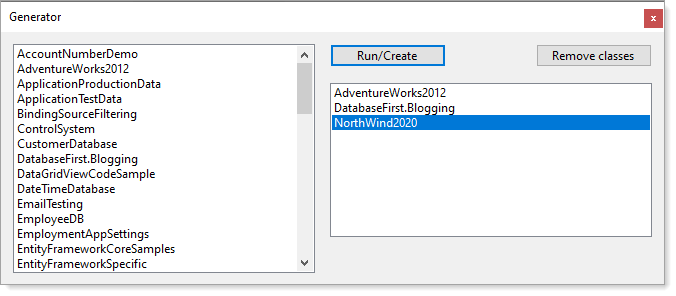
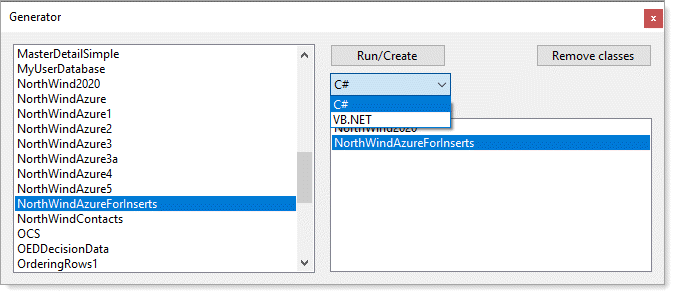
Added support for vb.net

diff --git a/CreateClassesFromSqlServer/Form1.Designer.cs b/CreateClassesFromSqlServer/Form1.Designer.cs
@@ -33,6 +33,7 @@ namespace CreateClassesFromSqlServer
             this.DatabaseNamesListBox = new System.Windows.Forms.ListBox();
             this.CreatedListBox = new System.Windows.Forms.ListBox();
             this.RemoveClassesFolderButton = new System.Windows.Forms.Button();
+            this.LanguageComboBox = new System.Windows.Forms.ComboBox();
             this.SuspendLayout();
             // 
             // CreateButton
@@ -58,7 +59,7 @@ namespace CreateClassesFromSqlServer
             // 
             this.CreatedListBox.FormattingEnabled = true;
             this.CreatedListBox.ItemHeight = 15;
-            this.CreatedListBox.Location = new System.Drawing.Point(329, 51);
+            this.CreatedListBox.Location = new System.Drawing.Point(329, 86);
             this.CreatedListBox.Name = "CreatedListBox";
             this.CreatedListBox.Size = new System.Drawing.Size(322, 154);
             this.CreatedListBox.TabIndex = 2;
@@ -73,11 +74,21 @@ namespace CreateClassesFromSqlServer
             this.RemoveClassesFolderButton.UseVisualStyleBackColor = true;
             this.RemoveClassesFolderButton.Click += new System.EventHandler(this.RemoveClassFolderButton_Click_1);
             // 
+            // LanguageComboBox
+            // 
+            this.LanguageComboBox.DropDownStyle = System.Windows.Forms.ComboBoxStyle.DropDownList;
+            this.LanguageComboBox.FormattingEnabled = true;
+            this.LanguageComboBox.Location = new System.Drawing.Point(329, 41);
+            this.LanguageComboBox.Name = "LanguageComboBox";
+            this.LanguageComboBox.Size = new System.Drawing.Size(121, 23);
+            this.LanguageComboBox.TabIndex = 4;
+            // 
             // Form1
             // 
             this.AutoScaleDimensions = new System.Drawing.SizeF(7F, 15F);
             this.AutoScaleMode = System.Windows.Forms.AutoScaleMode.Font;
             this.ClientSize = new System.Drawing.Size(663, 252);
+            this.Controls.Add(this.LanguageComboBox);
             this.Controls.Add(this.RemoveClassesFolderButton);
             this.Controls.Add(this.CreatedListBox);
             this.Controls.Add(this.DatabaseNamesListBox);
@@ -96,6 +107,7 @@ namespace CreateClassesFromSqlServer
         private System.Windows.Forms.ListBox DatabaseNamesListBox;
         private System.Windows.Forms.ListBox CreatedListBox;
         private System.Windows.Forms.Button RemoveClassesFolderButton;
+        private System.Windows.Forms.ComboBox LanguageComboBox;
     }
 }
 

diff --git a/CreateClassesFromSqlServer/Classes/DataOperations.cs b/CreateClassesFromSqlServer/Classes/DataOperations.cs
@@ -22,6 +22,8 @@ namespace CreateClassesFromSqlServer.Classes
         /// </summary>
         public static string OutputFolder { get; set; }
 
+        public static Language Language { get; set; }
+
         /// <summary>
         /// Iterate <see cref="Database"/> tables, create classes from
         /// SQL in the file ClassQuery.txt or ClassQueryPlain.txt
@@ -33,7 +35,11 @@ namespace CreateClassesFromSqlServer.Classes
         {
             try
             {
-                var classQuery = File.ReadAllText("ClassQueryPlain.txt");
+                //var classQuery = File.ReadAllText("ClassQueryPlain.txt");
+                var classQuery = File.ReadAllText("ClassQueryPlainVb.txt");
+                
+                var fileExtension = Language == Language.Sharp ? ".cs" : ".vb";
+                
 
                 using var cn = new SqlConnection($"Server={Server};Database={Database};Integrated Security=true");
 
@@ -60,12 +66,12 @@ namespace CreateClassesFromSqlServer.Classes
                         tableName = row["TABLE_SCHEMA"] + "." + row["TABLE_NAME"];
                     }
 
-                    var fileName = tableName + ".cs";
+                    var fileName = tableName + fileExtension;
 
                     var baseFileName = Path.GetFileNameWithoutExtension(fileName);
                     baseFileName = baseFileName.Replace(".", "");
 
-                    fileName = baseFileName + ".cs";
+                    fileName = baseFileName + fileExtension;
 
                     string sqlStatement = $"declare @TableName sysname = '{tableName}'{classQuery}";
 

diff --git a/CreateClassesFromSqlServer/Classes/Language.cs b/CreateClassesFromSqlServer/Classes/Language.cs
@@ -1,0 +1,32 @@
+using System;
+using System.Collections.Generic;
+using System.Linq;
+using System.Text;
+using System.Threading.Tasks;
+
+namespace CreateClassesFromSqlServer.Classes
+{
+    public enum Language
+    {
+        Sharp,
+        Basic
+    }
+
+    public class ComboLanguage
+    {
+        public string Display { get; set; }
+        public Language Language { get; set; }
+        public override string ToString() => Display;
+
+    }
+
+    public class Helpers
+    {
+        public static List<ComboLanguage> Languages => new List<ComboLanguage>()
+        {
+            new ComboLanguage() {Display = "C#", Language = Language.Sharp},
+            new ComboLanguage() {Display = "VB.NET", Language = Language.Basic}
+
+        };
+    }
+}

diff --git a/CreateClassesFromSqlServer/Form1.cs b/CreateClassesFromSqlServer/Form1.cs
@@ -29,6 +29,7 @@ namespace CreateClassesFromSqlServer
         {
             _databaseBindingSource.DataSource = await DataOperations.DatabaseNameList();
             DatabaseNamesListBox.DataSource = _databaseBindingSource;
+            LanguageComboBox.DataSource = Helpers.Languages;
         }
 
         /// <summary>
@@ -40,7 +41,7 @@ namespace CreateClassesFromSqlServer
         private void CreateButton_Click(object sender, EventArgs e)
         {
             DataOperations.Database = DatabaseNamesListBox.Text;
-            
+            DataOperations.Language = ((ComboLanguage) LanguageComboBox.SelectedItem).Language;
 
             if (CreatedListBox.Items.Contains(DatabaseNamesListBox.Text))
             {
